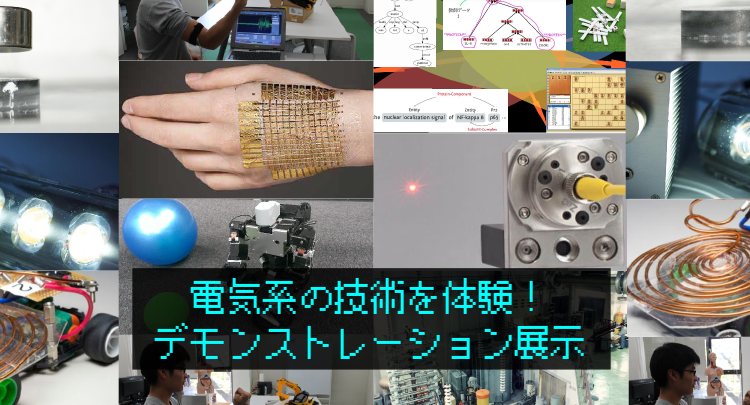
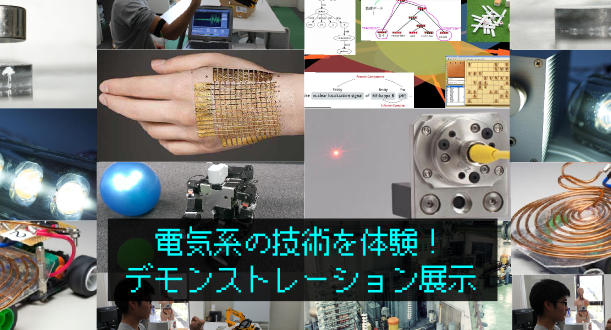
added circuit image

diff --git a/index.html b/index.html
@@ -68,8 +68,9 @@
                     </div>
                 </div>
                 <div class="top-content col-xs-12 hidden-sm hidden-md hidden-lg" style="margin-top: 25px">
-                    <div><img src="./images/top.png" alt="test"></div>
-                    <div><img src="./images/demo.png" alt="test"></div>
+                    <div><img src="./images/top.png" alt="top"></div>
+                    <div><img src="./images/demo.png" alt="demonstration"></div>
+                    <div><img src="./images/circuitworkshop.png" alt="circuit" /></div>
                 </div>
                 <div class="col-xs-12 hidden-sm hidden-md hidden-lg vice-top border-box">
                     <div id="mayfes-date">
@@ -80,8 +81,9 @@
                     </div>
                 </div>
                 <div class="top-content hidden-xs col-sm-8 col-md-9">
-                    <div><img src="./images/top.png" alt="test"></div>
-                    <div><img src="./images/demo.png" alt="test"></div>
+                    <div><img src="./images/top.png" alt="top"></div>
+                    <div><img src="./images/demo.png" alt="demonstration"></div>
+                    <div><img src="./images/circuitworkshop.png" alt="circuit" /></div>
                 </div>
                 <div class="col-xs-12 col-sm-12 vice-top border-box">
                     <!--<img src="./images/title_index_map.png" class="mini-title responsive-image" alt="工学部二号館案内マップ">-->
